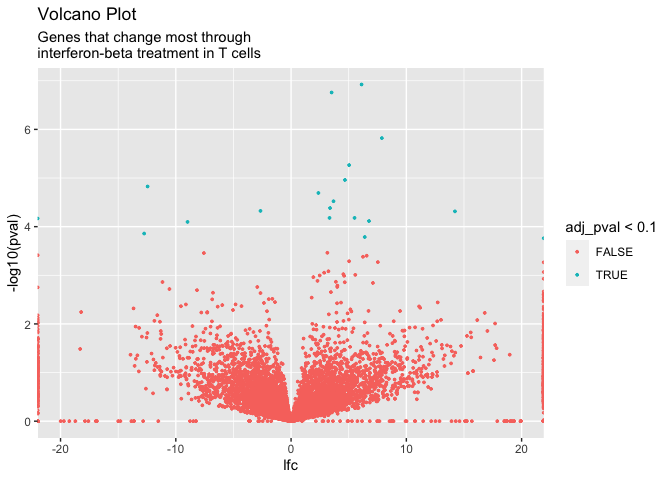
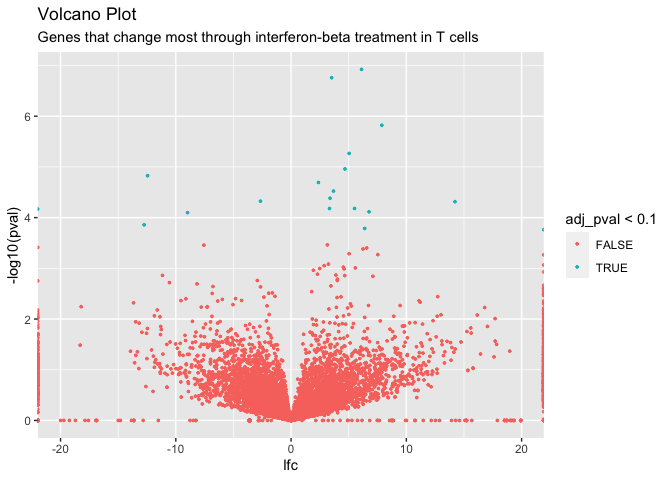
Update README / vignette

diff --git a/README.md b/README.md
@@ -196,10 +196,10 @@ bench::mark(
 #> # A tibble: 4 x 6
 #>   expression               min   median `itr/sec` mem_alloc `gc/sec`
 #>   <bch:expr>          <bch:tm> <bch:tm>     <dbl> <bch:byt>    <dbl>
-#> 1 glmGamPoi_in_memory    1.28s    1.29s    0.767   523.55MB    3.07 
-#> 2 glmGamPoi_on_disk      3.82s    4.36s    0.227   852.14MB    1.44 
-#> 3 DESeq2                20.98s   21.38s    0.0465    1.16GB    0.372
-#> 4 edgeR                  5.69s     5.7s    0.175     1.19GB    1.29
+#> 1 glmGamPoi_in_memory    1.27s    1.38s    0.650   523.55MB    2.17 
+#> 2 glmGamPoi_on_disk      4.78s    4.84s    0.205   852.14MB    1.02 
+#> 3 DESeq2                 22.4s    22.4s    0.0445    1.16GB    0.386
+#> 4 edgeR                  6.11s    6.16s    0.162     1.19GB    0.918
 ```
 
 On this dataset, `glmGamPoi` is more than 5 times faster than `edgeR`
@@ -366,13 +366,13 @@ replicates), we create a pseudobulk for each sample:
 # We test the expression difference of stimulated and control T-cells
 #
 # There is no sample label in the colData, so we create it on the fly
-# (paste0(stim, "-", ind)) to aggregate the counts by sample
+# from `stim` and `ind` columns in colData(fit$data).
 de_res <- test_de(fit, contrast = `stimstim` + `cellCD4 T cells:stimstim`, 
                   pseudobulk_by = paste0(stim, "-", ind)) 
 
 # The large `lfc` values come from groups were nearly all counts are 0
 # Setting them to Inf makes the plots look nicer
-de_res$lfc = ifelse(abs(de_res$lfc) > 20, sign(de_res$lfc) * Inf, de_res$lfc)
+de_res$lfc <- ifelse(abs(de_res$lfc) > 20, sign(de_res$lfc) * Inf, de_res$lfc)
 
 # Most different genes
 head(de_res[order(de_res$pval), ])
@@ -398,7 +398,7 @@ p-values.
 library(ggplot2)
 ggplot(de_res, aes(x = lfc, y = -log10(pval))) +
   geom_point(size = 0.6, aes(color = adj_pval < 0.1)) +
-  ggtitle("Volcano Plot", "Genes that change most through\ninterferon-beta treatment in T cells")
+  ggtitle("Volcano Plot", "Genes that change most through interferon-beta treatment in T cells")
 ```
 
 ![](man/figures/README-unnamed-chunk-14-1.png)<!-- -->
@@ -455,10 +455,10 @@ head(marker_genes2)
 #> 9116 1070.895 -1.442695e+08
 ```
 
-Unsurprisingly, we identify many genes related to the human leukocyte
-antigen (HLA) system that is important for antigen presenting cells like
-B-cells, but are not expressed by T helper cells. The plot below shows
-the expression differences.
+We identify many genes related to the human leukocyte antigen (HLA)
+system that is important for antigen presenting cells like B-cells, but
+are not expressed by T helper cells. The plot below shows the expression
+differences.
 
 A note of caution: applying `test_de()` to single cell data without the
 pseudobulk gives overly optimistic p-values. This is due to the fact
@@ -555,5 +555,5 @@ sessionInfo()
 #> [77] survival_3.1-12               tibble_3.0.1                 
 #> [79] AnnotationDbi_1.50.0          memoise_1.1.0                
 #> [81] ellipsis_0.3.0                interactiveDisplayBase_1.26.3
-#> [83] BiocStyle_2.16.0
+#> [83] BiocStyle_2.18.0
 ```
